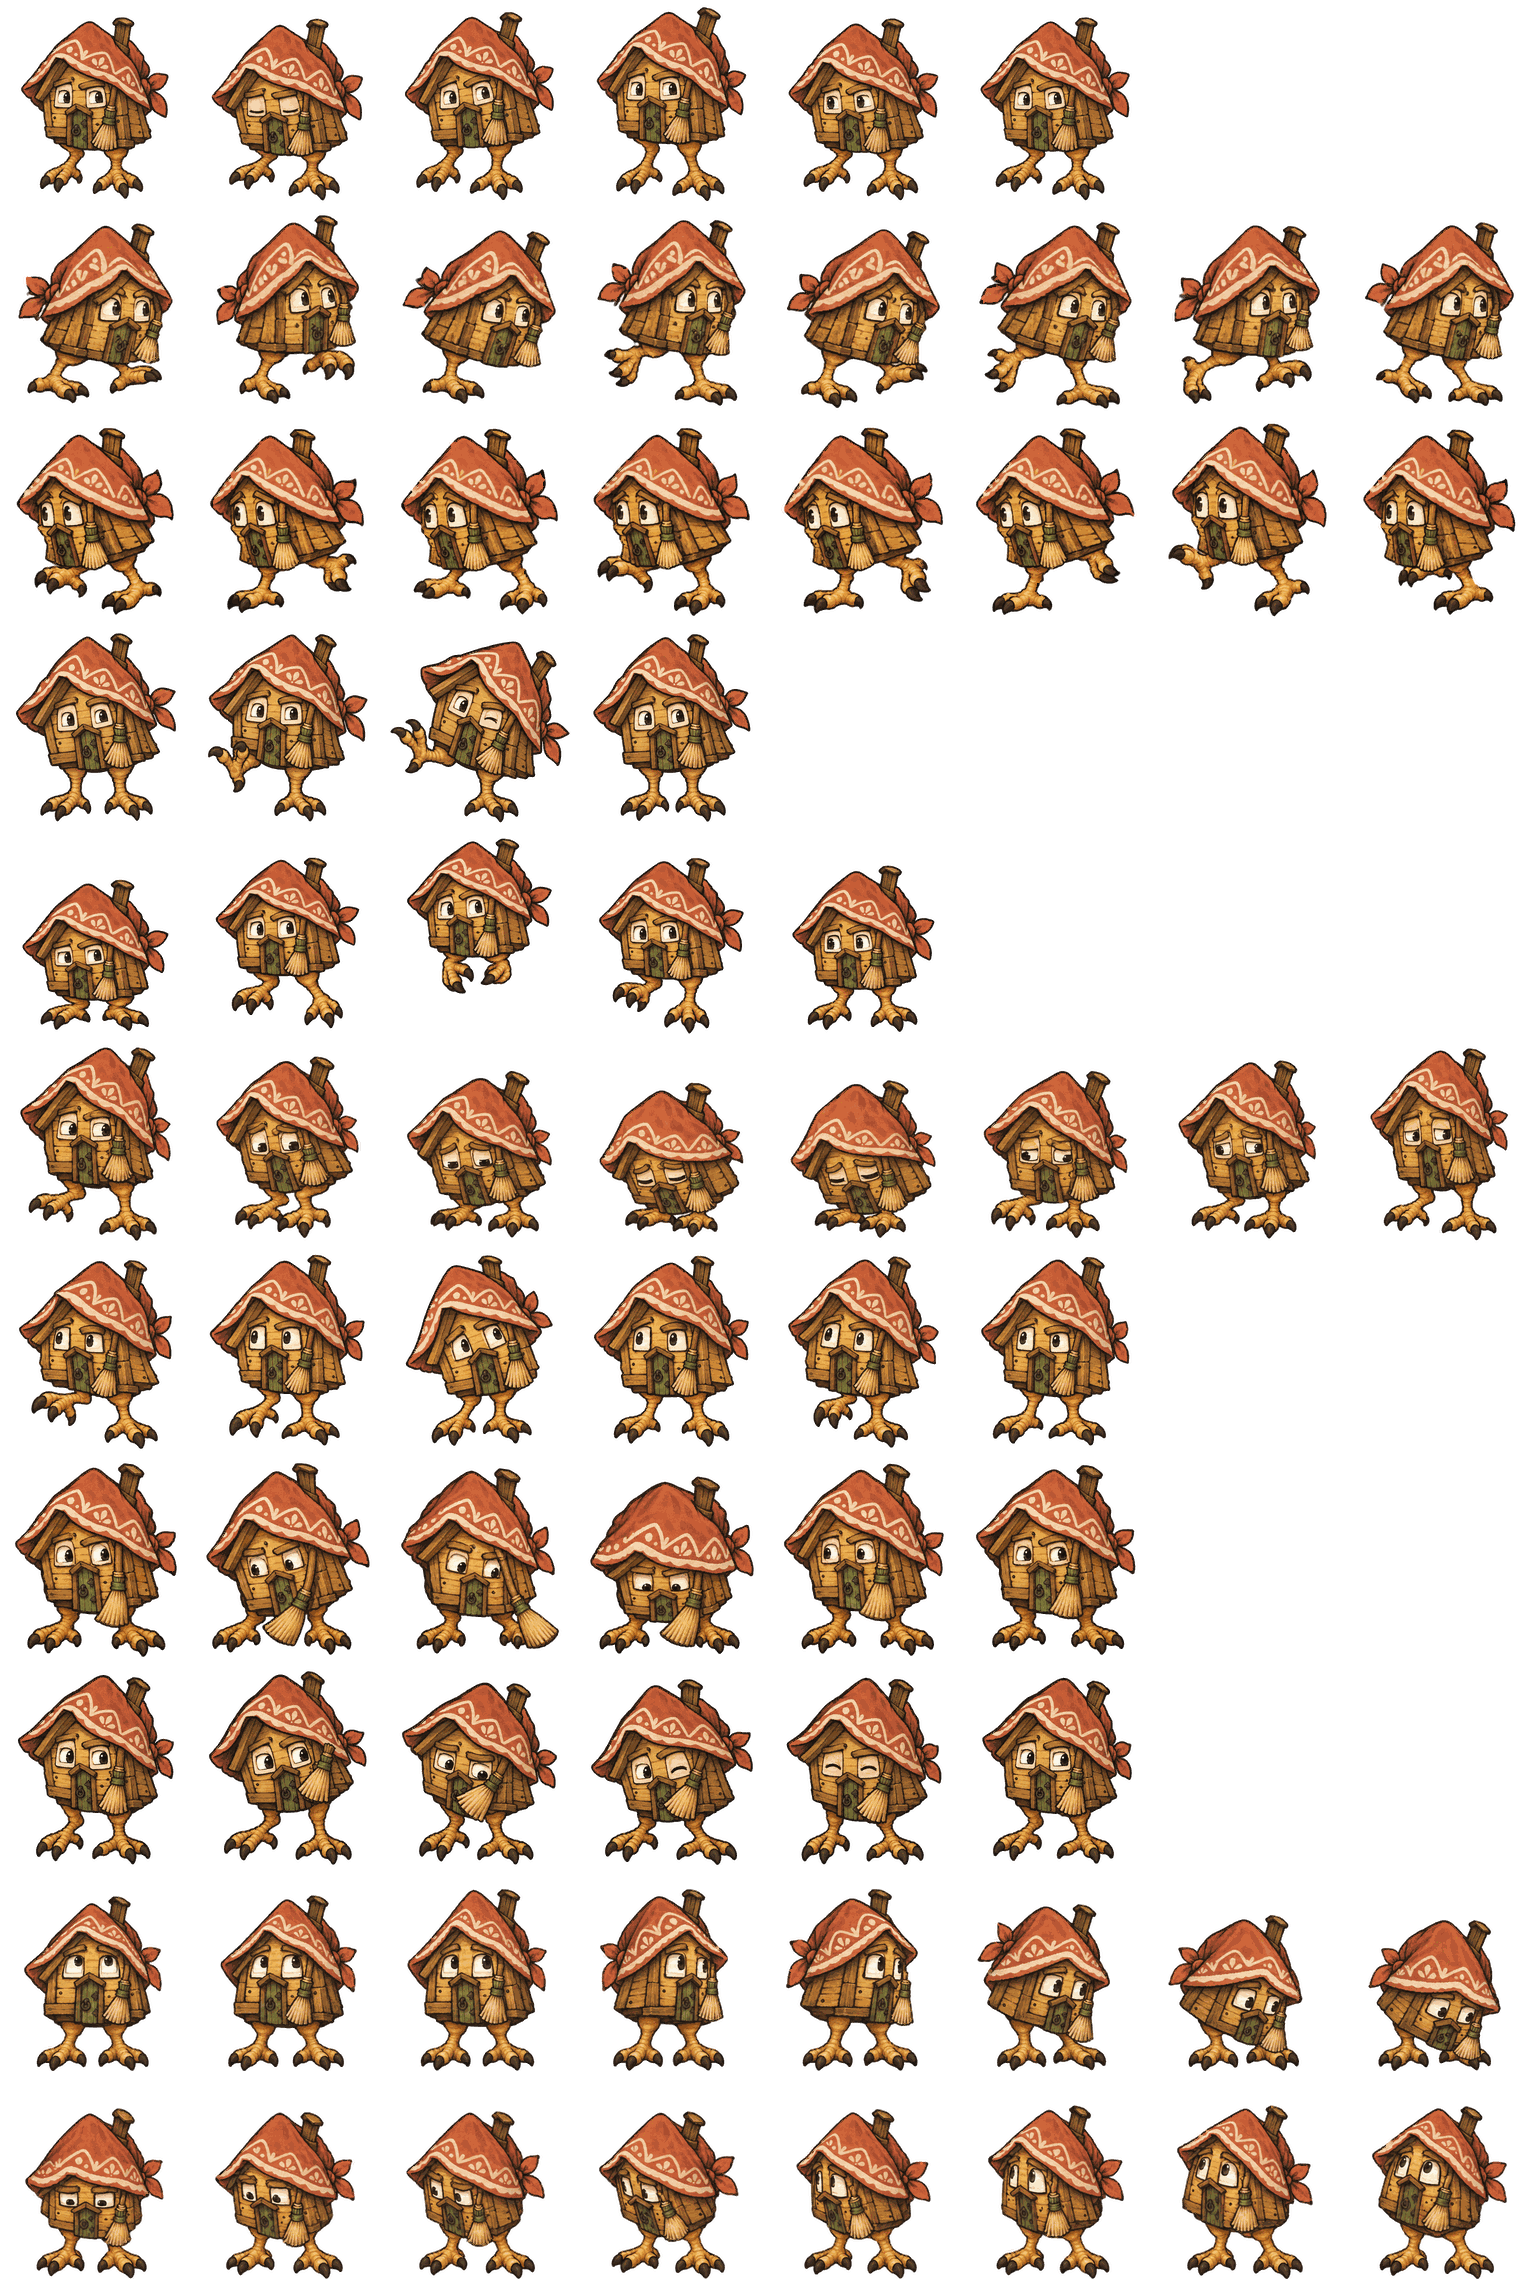
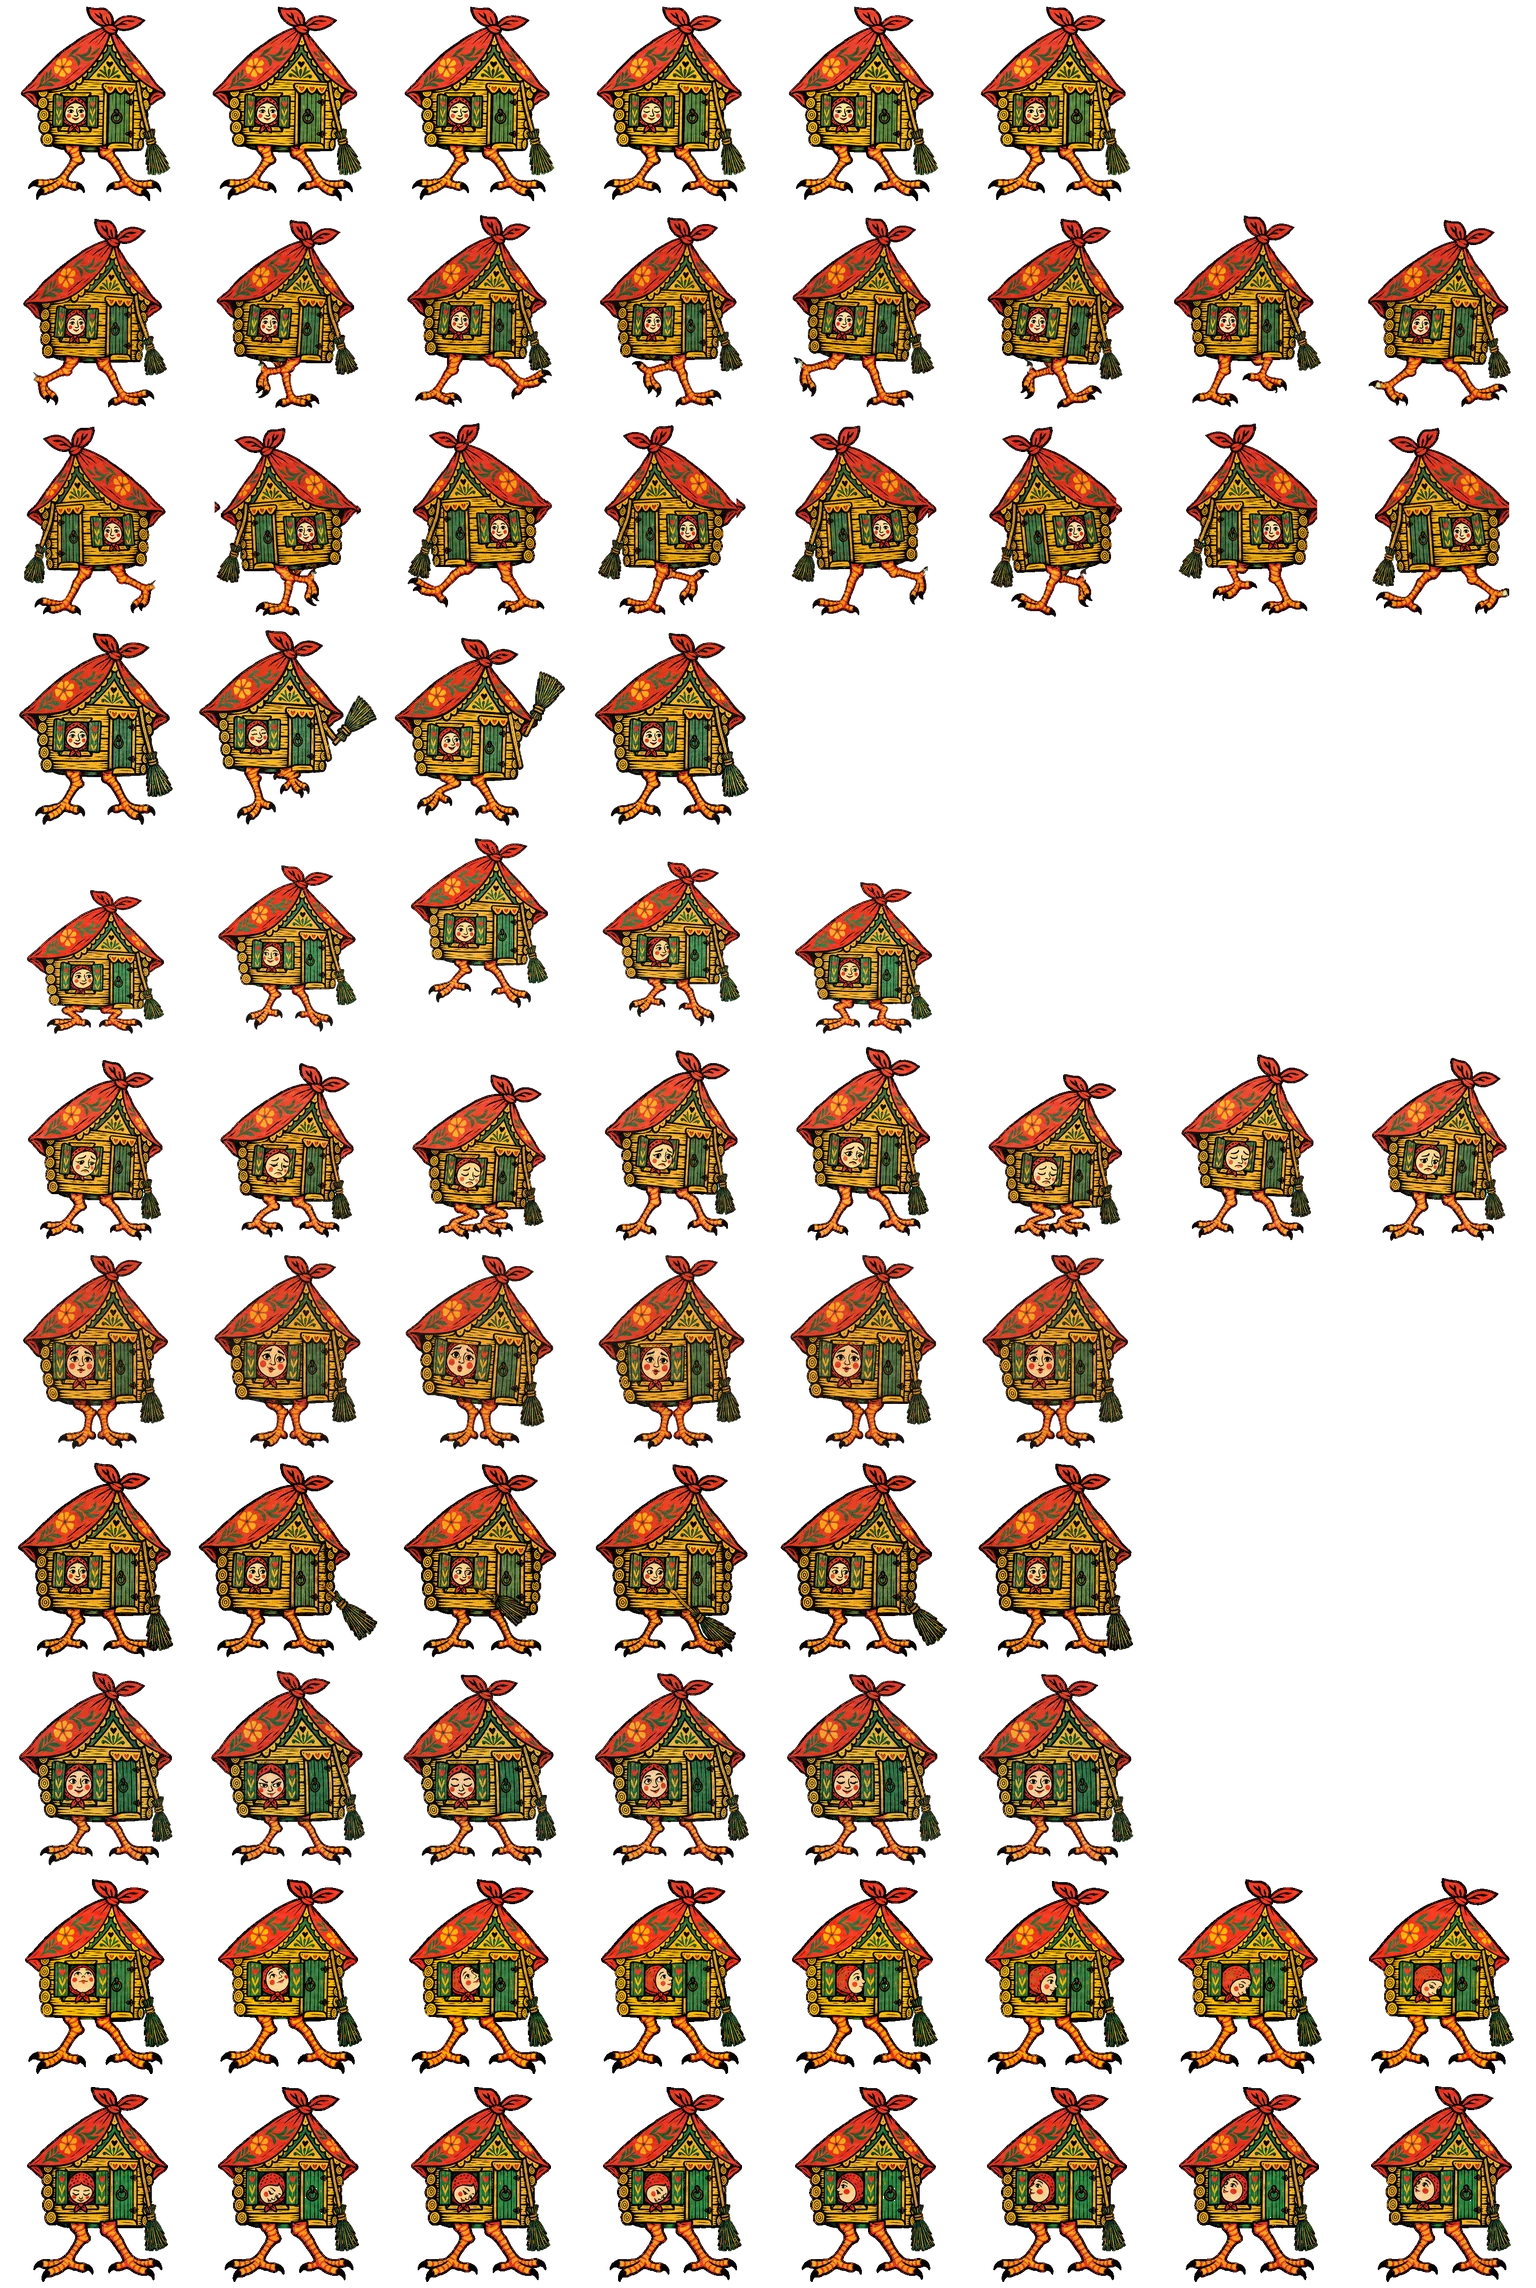
Pets: The Baba Yaga redrawn [skip ci]
The Baba Yaga followed as a Russian lubok woodblock print. Paul signed off the sheet ("sign off"). Lossy WebP q88, 1,007,550 bytes, alpha bit-identical (mean error 11.2/255); the 25 sheets total 21,809,830 bytes. pet-metrics.json and the making-of golden regenerated.

diff --git a/docs/marginarium-pets.md b/docs/marginarium-pets.md
@@ -210,5 +210,7 @@ Lossy WebP at quality 88 (alpha bit-identical; checked at 1x and 5x on light and
[4 lines of base64/hex data omitted]
 
-The twenty-eight sheets total **21,520,990 bytes (20.52 MiB)** of the 24 MiB budget.
+The Baba Yaga followed as a Russian lubok woodblock print. The twenty-eight sheets total
+**21,809,830 bytes (20.80 MiB)** of the 24 MiB budget.
